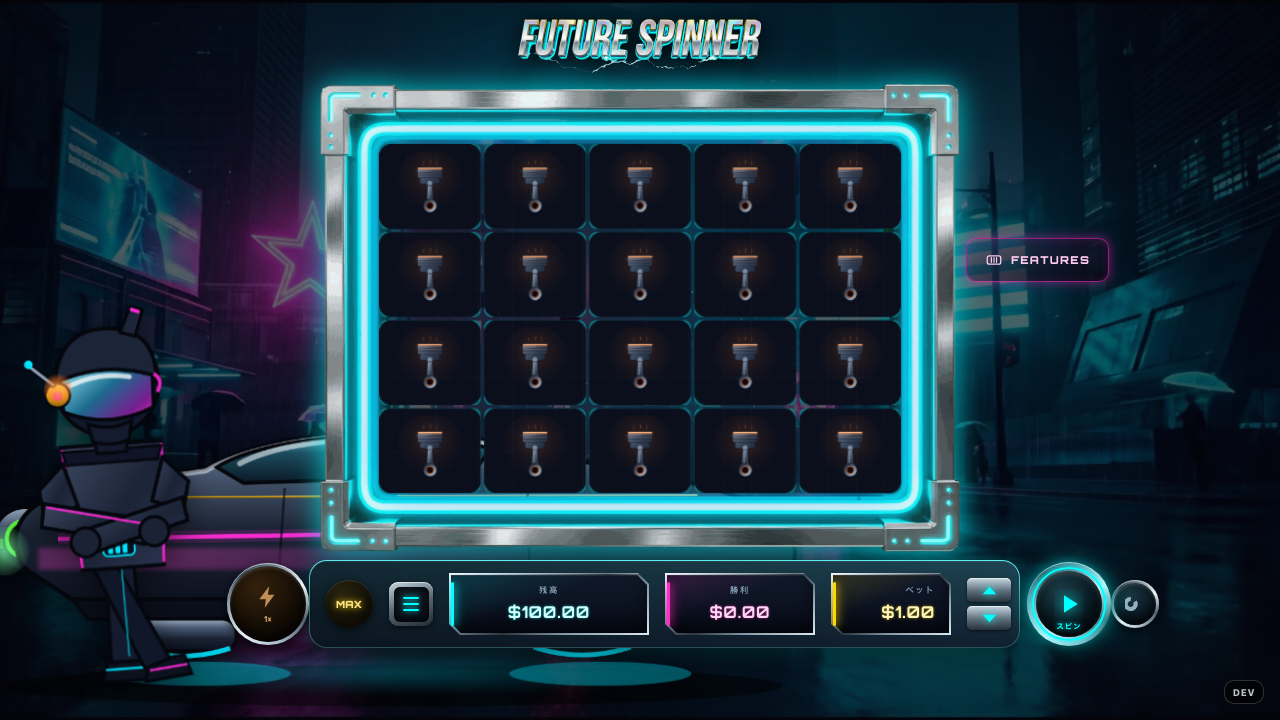
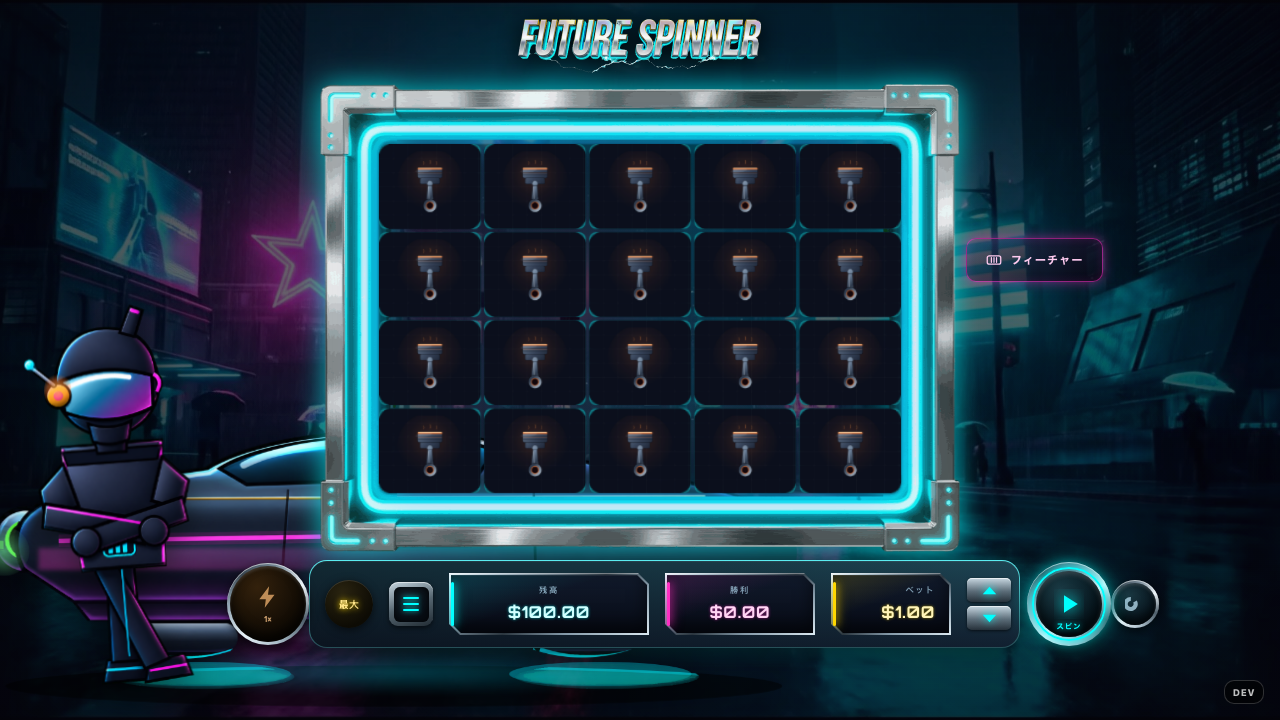
fix(JOB 3d, TR-067): social sessions force English before first paint
Stake Engine testing guideline item 46, quoted: "English is the only supported
language in Social Mode". It is written as a requirement on the GAME, so the
game enforces it rather than trusting the platform to only ever send en. The
social flag selected the vocabulary variant and never touched the locale, so a
social session launched with lang=de rendered German chrome in social wording.

Two layers, because social arrives by two routes at two different times:

  BOOT  the ?social=true flag and a social ?currency= are in the URL from the
        first byte, so resolveLaunchLocale decides in App's script body and
        there is never a German frame to photograph.
  LATE  socialCasino and the currency code arrive with authenticate, after
        paint, so enforceSocialEnglish watches isSocial and forces English if
        it turns true afterwards. Without this a session flagged social only at
        authenticate would render German social wording, the exact breach.

The forcing is one way. Social turning on forces English; social turning off
restores nothing, because no legitimate session stops being social and a store
that remembered and restored would invent a state machine for a transition that
cannot occur.

The row records the fix as "one line in tr.ts". That was taken as the
disposition, not the implementation: it would cover every string routed through
$tr and leave the locale store itself reading de, so the currency formatter's
[…]

diff --git a/frontend/src/lib/stores/socialLocale.test.ts b/frontend/src/lib/stores/socialLocale.test.ts
@@ -1,0 +1,93 @@
+// socialLocale.test.ts, JOB 3(d) / TR-067 (2026-07-26).
+//
+// Stake Engine testing guideline item 46, quoted verbatim from the dated
+// mirror: "English is the only supported language in Social Mode".
+//
+// The load-bearing case is a SOCIAL `da` LAUNCH, and it is the case Fable named
+// because it exercises both halves of the rule at once:
+//
+//   FORCING           social must render English whatever `lang` says.
+//   UNSHIPPED LOCALE  `da` (Danish) is offered by the platform's own Language
+//                     menu and is NOT one of our sixteen, recorded on TR-059
+//                     from the DTT toolbar captures. So the same launch also
+//                     tests the fallback for a language we do not ship.
+//
+// A test that only covered social `de` would prove the forcing and prove
+// nothing about the fallback, and a test that only covered non-social `da`
+// would prove the reverse. This covers both, plus the case that must NOT be
+// broken: a real-money `de` session still renders German.
+//
+// Run (from frontend/): npx tsx src/lib/stores/socialLocale.test.ts
+
+import { resolveLaunchLocale, SOCIAL_LOCALE } from './socialLocale.ts'
+import { locales } from '../i18n/translations.ts'
+
+let pass = 0
+const failures: string[] = []
+
+function eq(label: string, actual: unknown, expected: unknown): void {
+  if (actual === expected) { pass++; return }
+  failures.push(`${label}: expected ${JSON.stringify(expected)}, got ${JSON.stringify(actual)}`)
+}
+function ok(label: string, cond: boolean, detail = ''): void {
+  if (cond) { pass++; return }
+  failures.push(`${label}${detail ? `: ${detail}` : ''}`)
+}
+
+// ── The premise, stated rather than assumed ──────────────────────────────────
+eq('social mode renders English', SOCIAL_LOCALE, 'en')
+ok('we ship exactly sixteen locales', Object.keys(locales).length === 16, String(Object.keys(locales).length))
+ok('da is NOT one of ours, which is what makes it the right test case',
+  !Object.prototype.hasOwnProperty.call(locales, 'da'))
+ok('de IS one of ours, which is what makes the forcing case meaningful',
+  Object.prototype.hasOwnProperty.call(locales, 'de'))
+
+// ── THE NAMED CASE: a social da launch ───────────────────────────────────────
+eq('social + da renders English', resolveLaunchLocale('da', true, locales), 'en')
+eq('non-social + da falls back to English, because we do not ship it',
+  resolveLaunchLocale('da', false, locales), 'en')
+
+// ── Forcing, against languages we DO ship ────────────────────────────────────
+// These are the cases that would have failed before this change: the parameter
+// is valid, the locale exists, and social must override it anyway.
+for (const code of Object.keys(locales)) {
+  eq(`social + ${code} is forced to English`, resolveLaunchLocale(code, true, locales), 'en')
+}
+
+// ── And the behaviour that must NOT regress ──────────────────────────────────
+// TR-014 exists because ?lang=ja once rendered the whole game in English. A fix
+// for item 46 that broke real-money localisation would trade one defect for a
+// worse one.
+for (const code of Object.keys(locales)) {
+  eq(`real money + ${code} still renders ${code}`, resolveLaunchLocale(code, false, locales), code)
+}
+
+// ── Malformed input is a valid launch, not an error ──────────────────────────
+// The spec marks the parameter optional: "lang | No | Language code".
+for (const bad of [null, undefined, '', '   ', 'xx', 'EN-GB', 'zz-ZZ', '../en', 'ja;drop', '123', 'null', 'ENGLISH']) {
+  eq(`malformed lang ${JSON.stringify(bad)} falls back to English`,
+    resolveLaunchLocale(bad, false, locales), 'en')
+  eq(`malformed lang ${JSON.stringify(bad)} is still English when social`,
+    resolveLaunchLocale(bad, true, locales), 'en')
+}
+
+// Case and whitespace are normalised, so a platform sending "DE " still gets
+// German rather than silently dropping to English.
+eq('uppercase is normalised', resolveLaunchLocale('DE', false, locales), 'de')
+eq('surrounding whitespace is trimmed', resolveLaunchLocale('  ja  ', false, locales), 'ja')
+
+// ── Social is checked BEFORE the parameter, and that ordering is the rule ────
+// Asserted against a shipped map that contains every code, so if the
+// implementation ever parsed first and forced second, one of these would show
+// the parsed value instead of English.
+ok('no input of any kind produces a non-English social locale',
+  [...Object.keys(locales), 'da', 'xx', '', '   ', null, undefined]
+    .every((v) => resolveLaunchLocale(v as string | null | undefined, true, locales) === 'en'))
+
+console.log(`social locale assertions: ${pass} passed, ${failures.length} failed`)
+if (failures.length) {
+  for (const f of failures) console.error(`  - ${f}`)
+  console.error('\nSOCIAL LOCALE: FAIL')
+  process.exit(1)
+}
+console.log('SOCIAL LOCALE: PASS')

diff --git a/frontend/src/lib/stores/socialLocale.ts b/frontend/src/lib/stores/socialLocale.ts
@@ -1,0 +1,93 @@
+// socialLocale.ts, JOB 3(d) / TR-067 (2026-07-26).
+//
+// Stake Engine testing guideline item 46, quoted verbatim from the dated
+// mirror: "English is the only supported language in Social Mode".
+//
+// That is written as a requirement on the GAME, not as a description of what
+// the platform will send, so the game has to enforce it rather than assume it.
+// Fable approved option (a): social sessions force the `en` locale BEFORE FIRST
+// PAINT, regardless of the language parameter.
+//
+// WHAT WAS ACTUALLY WRONG. `i18n/tr.ts` derives from `[locale, isSocial]` and
+// uses the social flag to pick the VOCABULARY VARIANT only. It never touches
+// the locale. The 39-term substitution layer is correct and well tested; the
+// two axes had simply never been connected, so a social session launched with
+// `lang=de` rendered German chrome wearing social wording.
+//
+// WHY THE LOCALE STORE AND NOT tr.ts. TR-067 records the fix as "one line in
+// tr.ts". That would have covered every string routed through `$tr` and left
+// the `locale` store itself still reading `de`, so anything else consuming it,
+// the currency formatter's locale tag among them, would disagree with the text
+// beside it. Forcing the store makes every consumer agree by construction, and
+// `locale` is a plain writable exported from gameStore, so this is the public
+// `.set()` API and needs no lock exception.
+//
+// TWO LAYERS, because social arrives by two different routes at two different
+// times:
+//
+//   BOOT      the `?social=true` flag and a social `?currency=` are in the URL
+//             from the first byte, so `resolveLaunchLocale` decides before the
+//             first render and there is never a German frame to photograph.
+//   LATE      `socialCasino` and the currency code arrive with the authenticate
+//             response, after paint. `enforceSocialEnglish` watches `isSocial`
+//             and forces English if it turns true later.
+//
+// The forcing is deliberately ONE WAY. Social turning on forces English; social
+// turning off does not restore a previous language, because there is no
+// legitimate sequence in which a session stops being social, and a store that
+// tried to remember and restore would be inventing a state machine for a
+// transition that cannot happen.
+
+import { get } from 'svelte/store'
+import { locale } from './gameStore'
+import { isSocial } from './socialMode'
+import { locales, type Locale } from '../i18n/translations'
+
+/** The one language social mode is permitted to render in. */
+export const SOCIAL_LOCALE: Locale = 'en'
+
+/**
+ * The locale a launch should paint in, decided from the URL alone.
+ *
+ * Pure, and separated from the wiring on purpose: the rule is the part worth
+ * testing, and it is testable with no browser, no dev server and no stores.
+ *
+ * @param rawLang - the raw `lang` URL parameter, exactly as read. May be
+ *                  absent, empty, malformed or a language we do not ship.
+ * @param social  - whether the URL alone already establishes social mode.
+ * @param shipped - the shipped locale map, passed in rather than imported at
+ *                  the call site so the validation cannot drift from what
+ *                  actually ships.
+ */
+export function resolveLaunchLocale(
+  rawLang: string | null | undefined,
+  social: boolean,
+  shipped: Record<string, unknown> = locales,
+): Locale {
+  // Social wins outright and is checked FIRST, so no amount of parameter
+  // parsing can produce a non-English social session. Checking it after the
+  // parameter would leave a path where a valid `lang` slipped through.
+  if (social) return SOCIAL_LOCALE
+
+  const candidate = (rawLang ?? '').toLowerCase().trim()
+  if (candidate && Object.prototype.hasOwnProperty.call(shipped, candidate)) {
+    return candidate as Locale
+  }
+  // Absent, unknown, malformed or empty all keep English. An unrecognised
+  // language code is a valid launch, not an error: the spec marks `lang`
+  // optional, so absence must not throw and must not render a raw key.
+  return SOCIAL_LOCALE
+}
+
+/**
+ * Watch for social mode arriving after boot and force English when it does.
+ *
+ * Returns the unsubscribe function. Never unsubscribed in the app, because the
+ * requirement holds for the whole session; the return exists so a test can
+ * clean up after itself.
+ */
+export function enforceSocialEnglish(): () => void {
+  return isSocial.subscribe(($social) => {
+    if ($social && get(locale) !== SOCIAL_LOCALE) locale.set(SOCIAL_LOCALE)
+  })
+}

diff --git a/frontend/src/App.svelte b/frontend/src/App.svelte
@@ -54,7 +54,8 @@
   import { spin, initRGS } from './lib/services/rgsService'
   import type { SpinResult } from './lib/services/rgsService'
   import { playBGM, playWin, warmUpAudio } from './lib/services/soundService'
-  import { isSocial } from './lib/stores/socialMode'
+  import { isSocial, socialAtBoot } from './lib/stores/socialMode'
+  import { resolveLaunchLocale, enforceSocialEnglish } from './lib/stores/socialLocale'
   // ── Overdrive Stage 2 (non-locked feature layer) ──────────────────────────
   import { get } from 'svelte/store'
   import { speedTier } from './lib/stores/speedMode'
@@ -160,20 +161,23 @@
   // Validation is against the SHIPPED `locales` map rather than a hardcoded
   // list, so adding or removing a locale updates this check for free and the two
   // can never disagree.
+  //
+  // JOB 3(d) / TR-067, 2026-07-26. Stake Engine testing guideline item 46:
+  // "English is the only supported language in Social Mode". The decision now
+  // runs through `resolveLaunchLocale`, which checks social FIRST so no amount
+  // of parameter parsing can produce a non-English social session, and
+  // `socialAtBoot` is resolved at module load from the URL, so this still
+  // happens before the first render. `enforceSocialEnglish` below covers the
+  // other route, where social arrives with the authenticate response instead.
   {
     try {
       const raw = new URLSearchParams(window.location.search).get('lang')
-      const candidate = (raw ?? '').toLowerCase().trim()
-      if (candidate && Object.prototype.hasOwnProperty.call(locales, candidate)) {
-        locale.set(candidate as Locale)
-      }
-      // Anything else (absent, unknown, malformed, empty) keeps the 'en'
-      // default the store already holds. No throw, no console noise: an
-      // unrecognised language code is a valid launch, not an error.
+      locale.set(resolveLaunchLocale(raw, socialAtBoot, locales))
     } catch {
       /* non-browser context; keep the default */
     }
   }
+  enforceSocialEnglish()
 
   if (import.meta.env.DEV) {
     const buf: TelemetryEvent[] = []

diff --git a/docs/records/reviews/REVIEW_TRACKER.md b/docs/records/reviews/REVIEW_TRACKER.md
@@ -177,7 +177,7 @@ condition belongs to JOB 7, where the self-test creates it deliberately).
 | TR-064 | The official client's end-round rule and the platform's own testing guideline give OPPOSITE instructions for zero-win rounds | Stake Engine testing guidelines, item 12, read 2026-07-26 | **ESCALATED, not ruled on** | High, it is a named guideline item with a pass or fail | unassigned | **PARKED for owner and Fable** | Guideline: *"Zero-win bets do not send an end-round request to the RGS"*. Our gate is `rgsService.ts:797`, `const needsEndRound = playResp.round ? playResp.active : playResp.winMicros > 0`. That was **deliberately changed** from `winMicros > 0` to the round's `active` flag under the JOB 4 sanction, and the comment records why: the official client says *"Only call this API if Play() has returned an Active result"*, and a `winMicros > 0` gate is wrong in both directions against that contract (a zero-win round the RGS still holds open would never settle; a settled winning round would settle twice). **So the two first-party sources conflict.** If the RGS returns `active: true` on a zero-win round we breach the guideline; if it returns `active: false` both are satisfied and there is nothing to do. **This must not be "fixed" before it is observed**, because reverting to `winMicros > 0` would reintroduce the defect the sanction closed. **Options:** (a) observe one zero-win spin in the Network tab and follow the evidence; (b) revert to `winMicros > 0` to satisfy the checklist literally, reintroducing the unsettled-round bug; (c) gate on `active && winMicros > 0`, which satisfies both texts but silently leaves a round open if the RGS ever holds a zero-win round active. **Recommend (a)**, and it is a thirty-second observation. Per (l.8) this is money-path and goes to the owner and Fable with the evidence rather than being decided by the builder. **RULED 2026-07-26: option (a), observe first, and NO CODE CHANGE in this pass.** The conflict is held open deliberately. Reverting to a win-based gate would reintroduce the defect the JOB 4 sanction closed, and neither first-party source can be preferred on argument alone. Observation 1 of the JOB 7 second visit captures a zero-win spin's Network tab: expect no end-round request, and note what `active` reads either way. The code moves only after that capture exists. |
 | TR-065 | The game frame scrolls on every responsive layout, against guideline item 15 | Stake Engine testing guidelines item 15, plus the owner's captures | **CONFIRMED, reproduced from code and three captures** | Medium | unassigned | **OPEN** | Guideline: *"Main game frame should not be scrollable"*. `:global(body)` is correctly `overflow: hidden; height: 100dvh` (`App.svelte:1709`), and desktop is clean. But `App.svelte:1821` gives `.game-wrapper.portrait`, `.game-wrapper.compact-landscape` and `.game-wrapper.mini-player` `overflow-y: auto`. A scrollbar is visible in the owner's captures at **mobile portrait, Mobile S (320x568) and Popout S (400x225)** and absent at Desktop, Laptop and Popout L, which is exactly the three-class list. Derived from code first, then corroborated by three captures at three sizes, independently. Fix is one rule; the reason `auto` was chosen (small viewports where content might exceed the box) needs checking so the fix does not clip instead of scroll. **APPROVED 2026-07-26 for the JOB 3 fix pass**, item (b), with the method constrained by the ruling: the frame must **fit** at mobile portrait, Mobile S and Popout S by re-deriving the layout maths, **not** by hiding overflow. Hiding it would trade a visible scrollbar for an invisible unreachable control, which is exactly what TR-069 turns out to be. Layout suites run at all seven real platform presets. **FIXED 2026-07-26, JOB 3(b).** Root cause was two stale constants, not the overflow property. Measured at Mobile M (375x667): the portrait wordmark was assumed 28px and is actually **42**; the HUD slot was assumed 290px and its content needs **287**, but `.p-hud` inside it ran to y=678 against a 667 viewport. 42+287=329 needed above the canvas where the old maths reserved 28+290=318, so the canvas got 349px into 338px of space and overshot by exactly the 11px observed. **Both constants are now runtime measurements** (`hudSlotEl.scrollHeight` and the wordmark's own rect, re-measured on resize and by a ResizeObserver so a mid-round feature strip or a longer translated label cannot reintroduce it); the constants survive only as first-frame fallbacks. A first draft clamped the measurement back up with `Math.max(287, 290)`, which returned 290 and changed nothing, and that is recorded because it is the same estimate-drift trap one level down. Separately `.canvas-slot` gains `overflow: hidden`, which is NOT the forbidden fake fit: what it clips is decorative scene bleed (car and character layers extend past the frame by design, and desktop already clipped them via `.stage`), and the gate proves it by asserting reachability against clipping ancestors independently. **`layout_fit_gate.mjs` PASSES at all seven presets: no scroll, no offscreen control, no clipped readout.** |
 | TR-066 | Double-tap zoom is not disabled on mobile, against guideline item 25; and the mini-player WIN readout clips mid-glyph | Stake Engine testing guidelines item 25, plus the Popout S capture | **CONFIRMED** | Minor | `main` | **CLOSED, both halves** | Guideline: *"Double tap to zoom is disabled on mobile"*. `frontend/index.html` viewport meta is `width=device-width, initial-scale=1.0, viewport-fit=cover`, with no `maximum-scale` and no `user-scalable=no`, and **`touch-action` appears nowhere in `frontend/src`** (grepped). Nothing disables double-tap zoom. Note `user-scalable=no` alone is ignored by modern iOS Safari, so the durable fix is `touch-action: manipulation` on the interactive surfaces, not the meta tag alone. **Filed together with a second cosmetic defect from the same capture**: at Popout S the mini strip's WIN readout renders `$0.0` plus a clipped partial character, and the balance drops its cents (`BAL $1,040` where the true balance is $1,040.06). The dropped cents may be intentional at that width; the mid-glyph clipping is not. Both live in the mini HUD sizing that TR-043 and JOB C tuned. **APPROVED 2026-07-26 for the JOB 3 fix pass.** Double-tap zoom is disabled via `touch-action: manipulation`, **not** `maximum-scale`, because the meta route is ignored by modern iOS Safari and would produce a gate that passes while the behaviour persists. The mini-player WIN clipping is fixed with a **measured assertion**, not a nudge, since this sizing has already been tuned twice and both previous attempts moved the truncation rather than removing it. **DOUBLE-TAP ZOOM FIXED 2026-07-26, JOB 3(c).** `touch-action: manipulation` on `html, body` in `app.css`, verified present in the shipped `dist` CSS. Deliberately not the viewport meta route: iOS Safari has ignored `user-scalable=no` and `maximum-scale` since version 10, so that fix would have produced a gate reading green while a player could still double-tap the reels and zoom, which is the exact failure shape this project keeps rediscovering. `manipulation` removes the double-tap delay while leaving PINCH zoom intact, so a player who needs to magnify the paytable still can; suppressing pinch would be an accessibility regression the guideline does not ask for. **THE MINI-PLAYER WIN CLIPPING IS NOT YET CONFIRMED FIXED and is deliberately left open.** The layout gate now reports `clipped=0` at Popout S and `mini_player_proof.mjs` passes `noStatValueIsTruncated`, but that assertion was already passing before this session while the owner's capture plainly shows a cut glyph, so a green result from it is not evidence. Either the `.canvas-slot` clip resolved it incidentally or both gates are measuring the wrong node. Not claimed as fixed until a Popout S capture from the rebuilt bundle is compared against `28_popout_s_mini_strip_TR066_win_clipped.png`. **REPRODUCED 2026-07-26, JOB 3(e), and the cause is now exact.** Two separate failures, both closed except the last step. **(1) The assertion was vacuous.** `noStatValueIsTruncated` tested `v.scrollWidth > v.clientWidth + 1`, and every `.m-stat-value` carries `use:autofitText`, which iteratively shrinks the font until precisely that condition is false. It tested the one thing autofit exists to eliminate, so it could only ever return false. Replaced with four real failure modes it cannot mask: clipped by a clipping ancestor, clipped by the viewport, autofit floor reached with content still overflowing, wrapping instead of fitting, and an effective rendered size under 9px. Per convention (p) it now ships a seeded self-test planting all three forms plus a negative control, and **the repair was itself caught by that self-test**: the first version missed the overflow seed because the seeded text WRAPPED rather than overflowing, which the check could not see either, so a `scrollHeight` test was added. **(2) The proof only ever rendered short numbers.** `START_MICROS` was `100_000_000`, i.e. `$100.00`, four characters. Every legibility assertion passed against it for weeks while the owner's real session showed `BAL $1,040` with the cents dropped and the WIN glyph cut. Raised to `$52,431,098.76`, which is not arbitrary: the owner ran this game at a $50,000,000 balance and the DTT offers presets to $10,000,000,000.00. **At that balance the mini BALANCE readout truncates in ALL FIVE states**, reproducing the owner's capture exactly. **STATUS: the gate is RED and stays red.** It is telling the truth, and this session's whole lesson is that a green gate which lies is worse than a red one. **The remaining fix is escalated rather than taken, per (l.8): it is player money display.** At 400x225 the strip must hold a features button, a menu, BALANCE, WIN, bet down/value/up and SPIN; roughly 170px remains for BALANCE and WIN, and `$52,431,098.76` alone needs about 110px at a legible size. Full precision for both readouts is not geometrically achievable at that width, so something must give. **Options:** (a) abbreviate above a threshold in the mini profile only, e.g. `$52.43M`, full precision everywhere else and the exact figure always available in the session panel, which is the common industry treatment for compact HUDs; (b) drop the cents above a threshold, `$52,431,098`, losing less information but saving less width; (c) drop the WIN readout from the mini strip when idle to give BALANCE the room, which changes what a player can see mid-round; (d) accept a smaller legible floor and re-measure. **Recommend (a).** This is money display, so per THE FACTS DISCIPLINE item 8 the builder does not rule on it. **CLOSED 2026-07-26. Fable ruled option (a), refined: in the 400x225 profile alone, BALANCE and WIN abbreviate (four significant characters plus magnitude suffix, `$52.43M`) exactly when the fully formatted value cannot fit the measured slot at the legible floor; values that fit render in full; every other profile keeps full precision everywhere.** Built as ruled, and the build found the real root cause, which is **not** the one recorded above. **A CORRECTION TO THIS ROW'S OWN DIAGNOSIS, stated plainly because it was wrong and it was mine.** The entry above says `noStatValueIsTruncated` was vacuous because "every `.m-stat-value` carries `use:autofitText`, which iteratively shrinks the font until precisely that condition is false". That is true of `.p-stat-value`, `.c-stat-value` and `.fs-value`. **It was never true of `.m-stat-value`**, and it is the reverse of the truth: that rule read a flat `font-size: 11px` from the day JOB C wrote this profile, so it never multiplied in the `--autofit-scale` custom property the action writes, and **`use:autofitText` has been a complete no-op on the mini strip for its entire existence.** The action set a property nothing read. The comment sitting directly beside the rule asserted the opposite ("autofitText already shrinks the string to fit"), which is how it survived two tuning passes and a written diagnosis. So the mid-glyph cut in the owner's capture was not autofit reaching a limit, it was nothing shrinking at all and `overflow: hidden` cutting the string. Fixed by the one-token change `font-size: calc(11px * var(--autofit-scale, 1))`, plus `font-variant-numeric: tabular-nums` so a counting-up win does not re-fit on every frame. **The abbreviation is still required, and this was derived before it was built.** Measured on the shipped build, the BALANCE stat box at 400x225 is **84.2px** including its 7px label, leaving roughly 58px for the value, and `$52,431,098.76` needs about 95px at the 11px base. Fitting it means about 0.61 scale, an effective **6.7px**, under the 9px legible floor. Shrinking alone cannot solve it; the ruling's abbreviation is the only remaining lever. **The decision is MEASURED, never thresholded.** `frontend/src/lib/actions/fitMoney.ts` renders the full form, shrinks it, and switches to the compact form only if it still overflows at the floor. A magnitude threshold ("abbreviate above $1,000,000") would have been a guess about a pixel width that depends on the currency symbol, the locale's separators, the bet ladder in play and whether the brand font loaded. **The formatter is `formatBalanceCompact` in `utils/currency.ts`, beside `formatBalance` and sharing its symbol table, locale parameter and platform-display-metadata path**, so the two forms cannot disagree about the symbol or leak a raw code. It uses **Intl compact notation rather than a hand-written K/M/B suffix table**, because a table would be English in a game that ships sixteen locales: `de` renders "52,43 Mio. $" and `ja` renders "$5243万" with no authored string, and the test asserts the rendered compact form carries **no prohibited term in any of the sixteen** via `scanProhibited`, so the vocabulary layer covers it. **It TRUNCATES rather than rounds, and that is a money rule.** Rounding to nearest renders $999,999.99 as "$1M", telling a player they hold more than they do; truncation renders "$999.9K" and can only understate. Asserted for four values including that no abbreviated numeral ever exceeds its true value. **PROVED ON BOTH FIXTURES, which is what makes it a proof of the ruling rather than of half of it.** `mini_player_proof.mjs` now runs the hostile `$52,431,098.76` and a fits-in-full fixture, and the fits-in-full value is **not invented**: it is `$1,040.06`, the balance in the owner's own capture, which the shipped build rendered as `BAL $1,040` with the cents cut off. Hostile: `$52.43M` at the full 11px in all five states. Fits: **`$1,040.06` complete, at 9.92px, above the floor**, so the owner's exact figure now renders whole and it is the `--autofit-scale` wiring rather than the abbreviation that achieves it. Desktop, portrait and compact landscape all render `BALANCE $52,431,098.76` in full, asserted. **Convention (p): five seeded violations, all caught**, including two new ones planting the failure of the abbreviation claim itself, one of which is literally the pre-fix build (the full string left at full size in a slot too small for it). Negative control clean. **A THIRD DEFECT, found only by doing the capture comparison the ruling asked for.** Beside the money readouts, the mini strip's menu button renders as an **empty dark box with no icon**, in the owner's live capture and in the rebuilt one. Cause: this profile borrows the portrait profile's `.p-hamburger-bar` markup, that rule paints from `var(--p-acc)`, and `--p-acc` is declared on `.p-hud` and nowhere else, so inside `.m-hud` the property is unset, the declaration is invalid at computed-value time and `background` falls back to transparent. Three bars of nothing, on the only control that reaches the paytable, session panel, turbo, autoplay and MAX in the popout. **`.c-hud` has the identical defect** and was fixed in the same pass. Fixed by declaring the accent on both roots rather than rewriting the shared bar rule, so a future profile reusing that markup cannot inherit the same silence. **A GATE REPAIR THIS FORCED, recorded because the gate was right to go red.** `theSpinActuallyRan` compared the BALANCE readout before and after a spin. At an abbreviated balance a $1.00 bet leaves the string at `$52.43M` both times, so the check failed. The repair is not a looser comparison but a better source: intercepted `/wallet/play` calls are counted, which proves the round reached the wallet and cannot be affected by how the result is formatted. Evidence: `reports/qa/mini_player_proof_2026-07-26.json`, captures in `reports/screens/mini-player-2026-07-26/` (five states plus `idle-fits-in-full.png`), compared against `reports/screens/dtt-live-2026-07-26/28_popout_s_mini_strip_TR066_win_clipped.png`. Gates: mini player proof PASS with all 25 checks and 5 seeded violations caught, currency static 82 assertions PASS, `npm run check` 0 errors at the committed 36-warning baseline, and the full static gate set PASS. |
-| TR-067 | Social Mode switches the vocabulary but never forces English, against guideline item 46 | Stake Engine testing guidelines item 46, read 2026-07-26 | **CONFIRMED** | Medium, it is a Stake.US jurisdiction requirement | unassigned | **OPEN** | Guideline: *"English is the only supported language in Social Mode"*. `i18n/tr.ts:14` is `derived([locale, isSocial], ([$locale, $social]) => (key) => t($locale, key, $social ? 'social' : 'real'))`. The social flag selects the **vocabulary variant** and never touches the **locale**, so a social session launched with `lang=de` renders German chrome with social wording. The whole 39-term substitution layer works correctly and is well tested; this is a separate axis nobody had connected. **Options:** (a) force `locale` to `en` whenever `isSocial` is true, one line in `tr.ts`, and accept that a platform-supplied non-English social session is overridden; (b) leave the locale alone on the grounds that the platform will only ever send English for Stake.US, and treat the guideline as a statement about platform behaviour rather than a game requirement; (c) force English and log a warning so a mismatch is visible in testing. **Recommend (a) or (c)**; the guideline is written as a requirement on the game and (a) is the reading a reviewer will apply. Interacts with TR-059: if social forces English, the localisation gap matters less in social jurisdictions and not at all less elsewhere. **APPROVED 2026-07-26 for the JOB 3 fix pass**, option (a): social sessions force the `en` locale **before first paint**, regardless of the language parameter. Before first paint rather than reactively, so a `de` social session never flashes German. Held by a test for a social `da` launch, which exercises the forcing and the unshipped-locale fallback in one case. |
+| TR-067 | Social Mode switches the vocabulary but never forces English, against guideline item 46 | Stake Engine testing guidelines item 46, read 2026-07-26 | **CONFIRMED** | Medium, it is a Stake.US jurisdiction requirement | `main` | **CLOSED** | Guideline: *"English is the only supported language in Social Mode"*. `i18n/tr.ts:14` is `derived([locale, isSocial], ([$locale, $social]) => (key) => t($locale, key, $social ? 'social' : 'real'))`. The social flag selects the **vocabulary variant** and never touches the **locale**, so a social session launched with `lang=de` renders German chrome with social wording. The whole 39-term substitution layer works correctly and is well tested; this is a separate axis nobody had connected. **Options:** (a) force `locale` to `en` whenever `isSocial` is true, one line in `tr.ts`, and accept that a platform-supplied non-English social session is overridden; (b) leave the locale alone on the grounds that the platform will only ever send English for Stake.US, and treat the guideline as a statement about platform behaviour rather than a game requirement; (c) force English and log a warning so a mismatch is visible in testing. **Recommend (a) or (c)**; the guideline is written as a requirement on the game and (a) is the reading a reviewer will apply. Interacts with TR-059: if social forces English, the localisation gap matters less in social jurisdictions and not at all less elsewhere. **APPROVED 2026-07-26 for the JOB 3 fix pass**, option (a): social sessions force the `en` locale **before first paint**, regardless of the language parameter. Before first paint rather than reactively, so a `de` social session never flashes German. Held by a test for a social `da` launch, which exercises the forcing and the unshipped-locale fallback in one case. **CLOSED 2026-07-26, JOB 3(d).** Built as approved, in `frontend/src/lib/stores/socialLocale.ts`. **Two layers, because social arrives by two routes at two different times.** BOOT: the `?social=true` flag and a social `?currency=` are in the URL from the first byte, so `resolveLaunchLocale` decides in `App.svelte`'s script body and there is never a German frame to photograph. LATE: `socialCasino` and the currency code arrive with the authenticate response, after paint, so `enforceSocialEnglish` watches `isSocial` and forces English if it turns true afterwards. Without the second layer a `lang=de` session that the platform flags social only at authenticate would have rendered German social wording, which is the breach the guideline names. The forcing is deliberately ONE WAY: social turning on forces English, social turning off restores nothing, because no legitimate session stops being social and a store that remembered and restored would be inventing a state machine for a transition that cannot occur. **The recorded fix was "one line in `tr.ts`" and that was taken as the disposition, not as the implementation.** A change inside `tr.ts` covers every string routed through `$tr` and leaves the `locale` store itself still reading `de`, so every other consumer of the locale, the currency formatter's locale tag among them, would disagree with the words beside it. The store is forced instead, via the public `.set()` API, so no lock exception arises and every consumer agrees by construction. **The rule and the wiring are proved separately, because they are different claims and this project has been caught by the gap between them twice** (R7/TR-015 was a correctly computed flag with no consumer; TR-067 is itself a correct vocabulary layer nobody had connected to the locale axis). `socialLocale.test.ts` proves the RULE with no browser: **65 assertions**, including the named social `da` case, forcing over all sixteen shipped locales, the twelve malformed inputs, and the regression guard that a real-money session in each of the sixteen still renders its own language, since a fix for item 46 that broke TR-014's localisation would trade one defect for a worse one. `locale_launch_conformance.mjs` proves the WIRING in a real browser across five social launch shapes, asserting both the rendered string and the **locale store itself**, plus a negative control that a real-money `de` session still renders `DREHEN`, with that control's own discriminating power asserted rather than assumed. **A correction the run produced, recorded because the first draft of the assertion was wrong rather than the build.** The check initially compared against `locales.en.spin` and failed all five cases with "rendered PLAY, expected SPIN". `spin` is itself a prohibited phrase on stake.us, so social English correctly renders `PLAY`: the expectation had named the locale axis and forgotten the vocabulary axis, which are exactly the two axes this row exists to keep separate. Now compared against `t('en', 'spin', 'social')`. Evidence: `reports/qa/locale_launch_conformance_2026-07-27.json` (16 locales, 10 fallback cases, 5 social cases, negative control, PASS) and `reports/screens/audit-remediation-v1/locale-social-da.png`, a social `da` session rendering COINS, PRIZE, PLAY and FEATURES entirely in English. CI gate 12a. |
 | TR-062 | The published bundle is one commit behind `main`, and nothing in the artefact ties a bundle to a commit | Found while auditing the upload kit, 2026-07-26 | **CONFIRMED** | Medium | unassigned | **OPEN** | The kit was built before `5674bd7` (the TR-060 dash fix). Verified directly rather than inferred: its shipped `assets/index-DEOd1P6P.js` still contains nine em dash occurrences including the two player-facing paytable strings, and the owner's 05.14.38 capture shows both rendering to a player in the published build. **Immediate consequence**: re-uploading the folder now on the Desktop would restore the hero image and re-ship the em dashes, so the TR-061 remedy must be a fresh-clone build per convention (o), not a reuse of the kit. **The general finding**: `dist/` carries no build stamp, so "what is live" is not answerable from the repository and I could only establish it by grepping the bundle. Same class as TR-047, where a committed size figure was checkable on exactly one machine. **Options**: (a) stamp `dist/` with the commit SHA at build time and have the upload kit refuse to package a dirty or non-HEAD tree; (b) treat the kit as single-use, regenerated per upload, and delete it after; (c) record the SHA in the kit's README only, which is the cheapest and the easiest to forget. Recommend (a) with (b), because (a) makes the question answerable from the artefact and (b) removes the stale-folder trap that caused this. Fable to rule. **RULED 2026-07-26: option (a) with (b), as recommended.** `dist/` carries `build-info.json` (commit SHA, build date, bundle byte total) plus one console boot line, and the network-hygiene gate asserts it adds no request (JOB 4). Kits are **single use**: the builder refuses a dirty tree or a non-HEAD checkout, names the SHA in the kit README, and the kit is deleted after upload. **The Desktop kit `~/Desktop/FS_UPLOAD_KIT/` is DEAD** and must not be uploaded again; kit V3 supersedes it and is frontend only, since maths stays at V1 untouched. |
 | TR-063 | The dash gate was widened across files but still cannot see the string form that produced TR-060, and does not scan `App.svelte` | Self-audit before reporting, 2026-07-26, per (l.5) | **CONFIRMED, reproduced** | Minor, but it is a recurrence guard that does not guard | unassigned | **OPEN** | `player_string_dash_check.mjs:65` matches `codePart.match(/'([^'\\]|\\.)*'/g)`, i.e. single-quoted JavaScript literals only. The two strings TR-060 found were markup prose between tags; double-quoted strings and template literals are equally invisible. Separately, `FILES` at line 37 lists `translations.ts`, `fsModes.ts` and `src/lib/components/*.svelte`, so **`src/App.svelte` is not scanned**, and `App.svelte:1215` ships `<title>{$activeTheme.name} — We Roll Spinners</title>`, an em dash in the browser tab title, player-visible, while the gate reports PASS at 25 files. Reproduced this session: the gate runs green with that line present. **This is the same pattern the project has now named four times** (social conformance, books verifier, `build_diet_verify.mjs`, and TR-060 itself), one level further down: the instance was fixed and the class reported closed. **Options**: (a) scan the whole file text for the two characters and allowlist genuine typographic placeholders by line, simplest and noisiest; (b) strip comments then scan all remaining text including markup, and add `src/App.svelte` and `src/routes` to `FILES`; (c) move the check into the build and scan `dist/` instead of source, which catches anything that actually ships regardless of how it was authored. Recommend (c) with (b), since (c) is the only form that would have caught the shipped bundle in TR-062 as well. Fable to rule. **RULED 2026-07-26: option (c) with (b), as recommended, plus a new standing convention.** The gate moves onto the built `dist/`, scanning every emitted byte for U+2014 and U+2013 with a reviewed allowlist, and a whole-text source scan including `App.svelte` sits behind it. Every source instance is fixed including the document title. **And the ruling generalises**: the gate ships a seeded-violation self-test that plants a dash and must FAIL on it before its PASS counts, now recorded as CLAUDE.md convention (p) and binding on every gate that claims a class closed. **CLOSED 2026-07-26, full chain verified post-outage.** `dash_gate.mjs` replaces `player_string_dash_check.mjs`; CI runs the self-test as its own step BEFORE the scan, so a gate that has lost the ability to fail is caught by CI rather than by a reviewer four days later. **Gate outputs: self-test PASS (4 seeded forms caught, negative control clean), source scan PASS, dist scan PASS, `npm run check` 0 errors.** The allowlist is empty and stayed empty. **The dist scan immediately earned its place**: it found 17 em dashes in `assets/themes/future-spinner/sounds/README.md`, a provenance document that ships in the bundle and was served from the portal in the 104-file listing. No source scan of `src/` could ever have seen it, because it is a public asset rather than code, and it is exactly the class of miss that produced TR-060 and TR-063 in the first place. Fixed at source. **Residual, parked**: `gameStore.ts` retains four comment dashes because it is locked and this session carried no exception; all four are comments, so dist reads zero and the shipped artefact is unaffected. Recorded under LOCKED_FILE_DEBTS. **Open question raised, not acted on**: that sounds README ships to the platform at all, exposing tooling provenance (model name, seed, licence paths) to anyone who fetches it, and it is one of the unreferenced files already noted as bundle dead weight. Pruning it is a build change outside this brief's scope; flagged for a ruling. |
 
